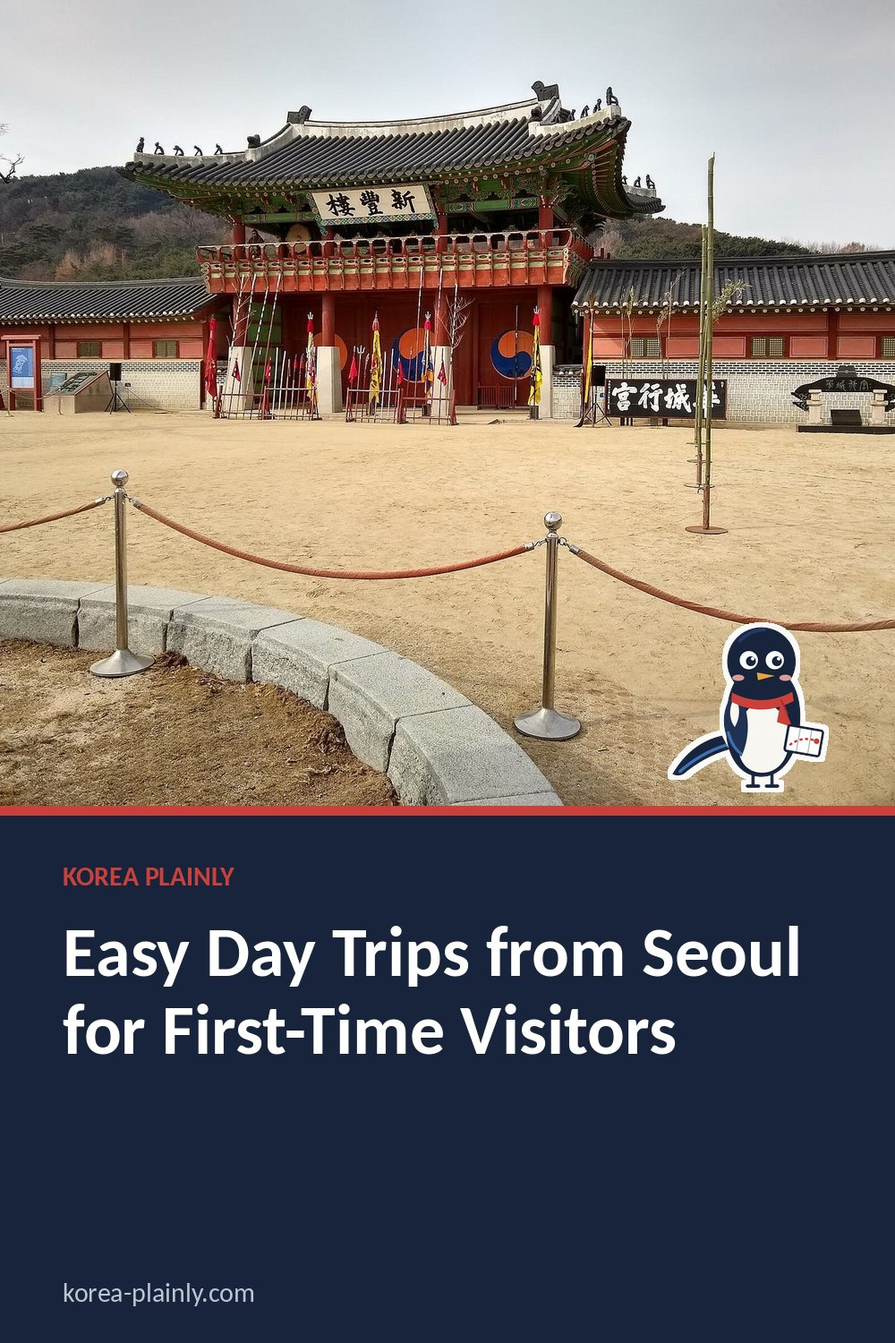
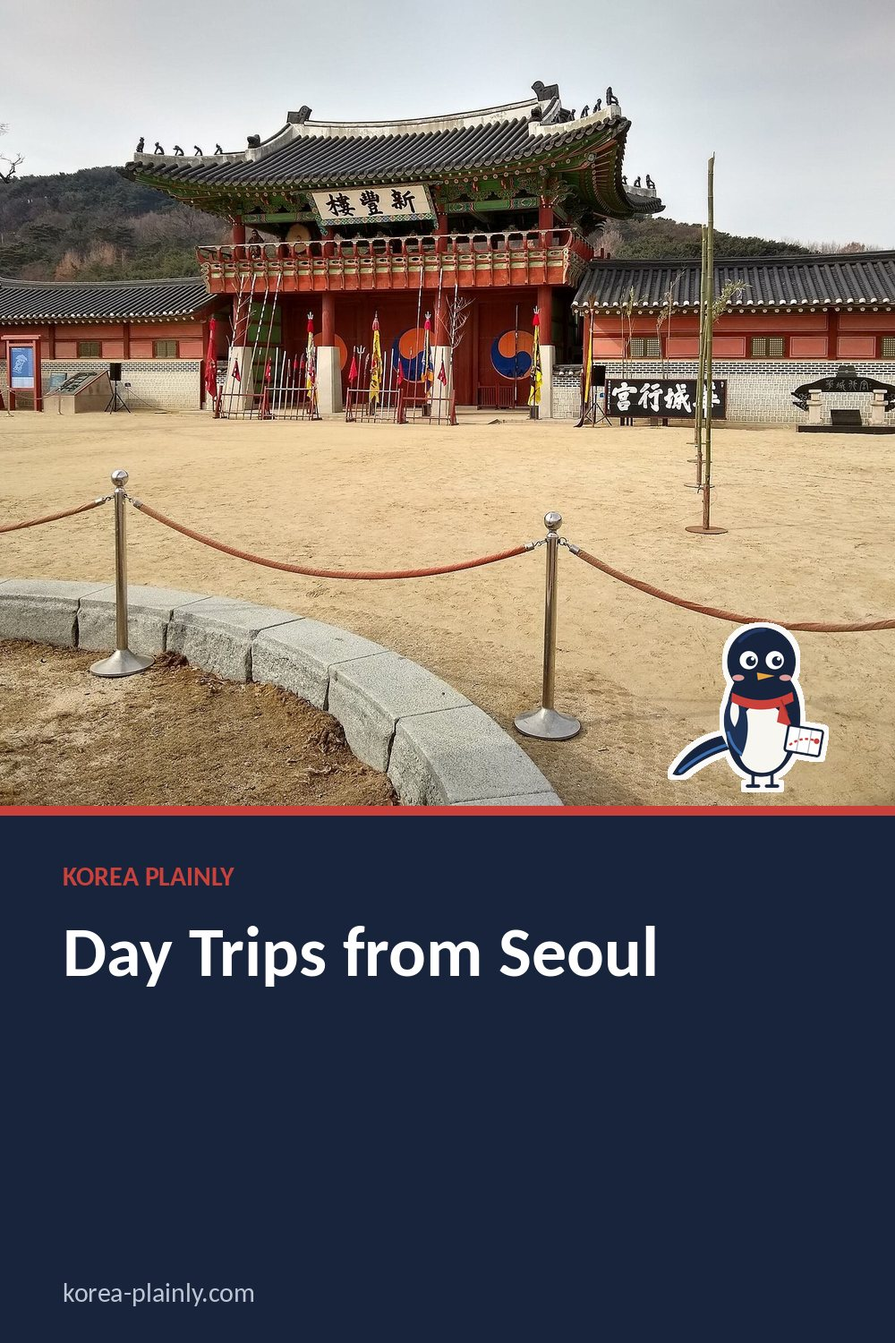
Day trips from Seoul: rewrite with exact trains and stations (Line 1 split at Guro, ITX-Cheongchun, KTX-Eum), food in each town, autumn and winter picks; retitle for 'day trips from Seoul in autumn', specific meta description, FAQ on autumn
Claude-Session: https://claude.ai/code/session_01MMQnqJZjdMGFpXAEup59Ev

Changed region(s): [[0.062, 0.6747, 0.899, 0.7973]]

diff --git a/day-trips-from-seoul.html b/day-trips-from-seoul.html
@@ -11,11 +11,11 @@
 >
 
 <link rel="stylesheet" href="style.css?v=20261015-1">
-<title>Easy Day Trips from Seoul for First-Time Visitors | Korea Plainly</title>
+<title>Day Trips from Seoul: 8 Easy Trips by Train, With Autumn and Winter Picks</title>
 
 <meta
   name="description"
-  content="The best day trips from Seoul and how to get there: Suwon&#x27;s Hwaseong Fortress, the DMZ, Nami Island, Incheon, Jeonju and Gangneung."
+  content="Eight day trips from Seoul with the train or bus to take, the time each way and what to eat, plus the best picks for autumn leaves and winter lights."
 >
 <link
   rel="canonical"
@@ -29,12 +29,12 @@
 
 <meta
   property="og:title"
-  content="Easy Day Trips from Seoul for First-Time Visitors"
+  content="Day Trips from Seoul: 8 Easy Trips by Train, With Autumn and Winter Picks"
 >
 
 <meta
   property="og:description"
-  content="The best day trips from Seoul and how to get there: Suwon&#x27;s Hwaseong Fortress, the DMZ, Nami Island, Incheon, Jeonju and Gangneung."
+  content="Eight day trips from Seoul with the train or bus to take, the time each way and what to eat, plus the best picks for autumn leaves and winter lights."
 >
 
 <meta
@@ -59,12 +59,12 @@
 
 <meta
   name="twitter:title"
-  content="Easy Day Trips from Seoul for First-Time Visitors"
+  content="Day Trips from Seoul: 8 Easy Trips by Train, With Autumn and Winter Picks"
 >
 
 <meta
   name="twitter:description"
-  content="The best day trips from Seoul and how to get there: Suwon&#x27;s Hwaseong Fortress, the DMZ, Nami Island, Incheon, Jeonju and Gangneung."
+  content="Eight day trips from Seoul with the train or bus to take, the time each way and what to eat, plus the best picks for autumn leaves and winter lights."
 >
 
 <meta
@@ -247,9 +247,9 @@ footer {
 <link rel="stylesheet" href="article.css?v=6">
 <link rel="stylesheet" href="https://fonts.googleapis.com/css2?family=DM+Sans:wght@400;500;600;700&family=Playfair+Display:ital,wght@0,600;1,600&display=swap">
 <link rel="icon" href="/favicon.svg" type="image/svg+xml">
-<script type="application/ld+json" id="kp-faq-ld">{"@context": "https://schema.org", "@type": "FAQPage", "mainEntity": [{"@type": "Question", "name": "What is the easiest day trip from Seoul?", "acceptedAnswer": {"@type": "Answer", "text": "Suwon's Hwaseong Fortress and Incheon are both about an hour away by subway, with no booking needed."}}, {"@type": "Question", "name": "Can I visit the DMZ on my own?", "acceptedAnswer": {"@type": "Answer", "text": "Most DMZ sites can only be visited on a guided tour. Book with a licensed operator and bring your passport."}}, {"@type": "Question", "name": "Can I visit Busan as a day trip from Seoul?", "acceptedAnswer": {"@type": "Answer", "text": "It is possible by KTX (about 2.5 hours each way), but it makes for a long day. Staying at least one night is much better; see our one day in Busan plan."}}]}</script>
-<script type="application/ld+json" id="kp-article-ld">{"@context": "https://schema.org", "@type": "Article", "headline": "Easy Day Trips from Seoul for First-Time Visitors", "description": "The best day trips from Seoul and how to get there: Suwon's Hwaseong Fortress, the DMZ, Nami Island, Incheon, Jeonju and Gangneung.", "image": ["https://korea-plainly.com/photo-day-trips-from-seoul.jpg"], "datePublished": "2026-10-13", "dateModified": "2026-11-19", "author": {"@type": "Person", "name": "Jungsuk Kim", "url": "https://korea-plainly.com/about.html#author"}, "publisher": {"@type": "Organization", "name": "Korea Plainly", "url": "https://korea-plainly.com/"}, "mainEntityOfPage": "https://korea-plainly.com/day-trips-from-seoul.html"}</script>
-<script type="application/ld+json" id="kp-breadcrumb-ld">{"@context": "https://schema.org", "@type": "BreadcrumbList", "itemListElement": [{"@type": "ListItem", "position": 1, "name": "Home", "item": "https://korea-plainly.com/"}, {"@type": "ListItem", "position": 2, "name": "Guides", "item": "https://korea-plainly.com/guides.html"}, {"@type": "ListItem", "position": 3, "name": "Travel Basics", "item": "https://korea-plainly.com/guides.html?category=travel"}, {"@type": "ListItem", "position": 4, "name": "Easy Day Trips from Seoul for First-Time Visitors", "item": "https://korea-plainly.com/day-trips-from-seoul.html"}]}</script>
+<script type="application/ld+json" id="kp-faq-ld">{"@context": "https://schema.org", "@type": "FAQPage", "mainEntity": [{"@type": "Question", "name": "What is the easiest day trip from Seoul?", "acceptedAnswer": {"@type": "Answer", "text": "Suwon and Incheon. Both are about an hour away on subway Line 1, you pay with your T-money card, and nothing needs booking."}}, {"@type": "Question", "name": "What is the best day trip from Seoul in autumn?", "acceptedAnswer": {"@type": "Answer", "text": "Nami Island with the Garden of Morning Calm, from late October to early November, for the ginkgo avenues. Go on a weekday morning."}}, {"@type": "Question", "name": "Can I visit Busan as a day trip from Seoul?", "acceptedAnswer": {"@type": "Answer", "text": "It is possible by KTX (about 2.5 hours each way), but it makes for a long day. Staying at least one night is much better; see our one day in Busan plan."}}]}</script>
+<script type="application/ld+json" id="kp-article-ld">{"@context": "https://schema.org", "@type": "Article", "headline": "Day Trips from Seoul: 8 Easy Trips by Train, With Autumn and Winter Picks", "description": "Eight day trips from Seoul with the train or bus to take, the time each way and what to eat, plus the best picks for autumn leaves and winter lights.", "image": ["https://korea-plainly.com/photo-day-trips-from-seoul.jpg"], "datePublished": "2026-10-13", "dateModified": "2026-11-19", "author": {"@type": "Person", "name": "Jungsuk Kim", "url": "https://korea-plainly.com/about.html#author"}, "publisher": {"@type": "Organization", "name": "Korea Plainly", "url": "https://korea-plainly.com/"}, "mainEntityOfPage": "https://korea-plainly.com/day-trips-from-seoul.html"}</script>
+<script type="application/ld+json" id="kp-breadcrumb-ld">{"@context": "https://schema.org", "@type": "BreadcrumbList", "itemListElement": [{"@type": "ListItem", "position": 1, "name": "Home", "item": "https://korea-plainly.com/"}, {"@type": "ListItem", "position": 2, "name": "Guides", "item": "https://korea-plainly.com/guides.html"}, {"@type": "ListItem", "position": 3, "name": "Travel Basics", "item": "https://korea-plainly.com/guides.html?category=travel"}, {"@type": "ListItem", "position": 4, "name": "Day Trips from Seoul: 8 Easy Trips by Train, With Autumn and Winter Picks", "item": "https://korea-plainly.com/day-trips-from-seoul.html"}]}</script>
 <meta property="article:published_time" content="2026-10-13">
 </head>
 
@@ -280,12 +280,12 @@ TRAVEL BASICS · DAY TRIPS
 </div>
 
 <h1>
-Easy Day Trips from Seoul for First-Time Visitors
+Day Trips from Seoul: 8 Easy Trips by Train, With Autumn and Winter Picks
 </h1>
 <p class="kp-date" data-kp="date">By <a href="about.html#author">Jungsuk Kim</a>, Korea Plainly · Published <time datetime="2026-10-13">13 October 2026</time> · Updated <time datetime="2026-11-19">19 November 2026</time></p>
 
 <p class="dek">
-The best day trips from Seoul and how to get there: Suwon&#x27;s Hwaseong Fortress, the DMZ, Nami Island, Incheon, Jeonju and Gangneung.
+Eight day trips from Seoul with the train or bus to take, the time each way and what to eat, plus the best picks for autumn leaves and winter lights.
 </p>
 
 <img
@@ -297,52 +297,60 @@ The best day trips from Seoul and how to get there: Suwon&#x27;s Hwaseong Fortre
 
 <article>
 
-<p>Seoul has plenty to fill a week (see our <a href="seoul-5-day-itinerary.html">5 days in Seoul</a> plan), but some of Korea's best experiences are an hour or two outside the city: a UNESCO fortress, the border with North Korea, river islands, a port with a Chinatown, and Korea's biggest hanok village. Fast trains and good buses make all of these easy as day trips. Here are the best ones for first-time visitors, with how to get there.</p>
+<p>Seoul is big enough to fill a week, but a few of the trips locals actually take at the weekend are only one or two hours away: a fortress wall you can walk round in an afternoon, a port with the original jajangmyeon, lakes and river islands in Gapyeong, and the coffee coast at Gangneung. Here are eight that work for first-time visitors, with the train to take, what to eat, and the best picks for autumn and winter.</p>
 
-<nav class="kp-toc" data-kp="toc" aria-label="On this page"><p>On this page</p><ol><li><a href="#suwon-hwaseong-fortress">Suwon: Hwaseong Fortress</a></li><li><a href="#the-dmz">The DMZ</a></li><li><a href="#nami-island-and-gapyeong">Nami Island and Gapyeong</a></li><li><a href="#incheon-chinatown-and-songdo">Incheon: Chinatown and Songdo</a></li><li><a href="#jeonju-hanok-village-and-food">Jeonju: hanok village and food</a></li><li><a href="#gangneung-coffee-and-the-east-coast">Gangneung: coffee and the east coast</a></li><li><a href="#everland-theme-park">Everland theme park</a></li><li><a href="#tips-for-day-trips">Tips for day trips</a></li><li><a href="#faq">FAQ</a></li></ol></nav>
+<nav class="kp-toc" data-kp="toc" aria-label="On this page"><p>On this page</p><ol><li><a href="#suwon-hwaseong-fortress">Suwon: Hwaseong Fortress</a></li><li><a href="#incheon-chinatown-and-songdo">Incheon: Chinatown, Wolmido and Songdo</a></li><li><a href="#gapyeong-nami-island-and-chuncheon">Gapyeong: Nami Island and Chuncheon</a></li><li><a href="#jeonju-hanok-village-and-food">Jeonju: hanok village and food</a></li><li><a href="#gangneung-coffee-and-the-east-coast">Gangneung: coffee and the east coast</a></li><li><a href="#the-dmz">The DMZ</a></li><li><a href="#yongin-everland">Yongin: Everland</a></li><li><a href="#best-day-trips-in-autumn-and-winter">Best day trips in autumn and winter</a></li><li><a href="#tips-for-day-trips">Tips for day trips</a></li><li><a href="#faq">FAQ</a></li></ol></nav>
 <h2 id="suwon-hwaseong-fortress">Suwon: Hwaseong Fortress</h2>
-<p><strong>Time from Seoul:</strong> about 1 hour by subway or train.</p>
-<p>Hwaseong is a late 18th-century fortress wall that loops around the old centre of Suwon, and it is a UNESCO World Heritage Site. Walk part of the wall for views over the city, visit the rebuilt Hwaseong Haenggung palace, and finish at Suwon's famous fried chicken street near the market. Wear comfortable shoes: the full wall walk is several kilometres with slopes.</p>
+<p><strong>Getting there:</strong> Line 1 to Suwon Station, about an hour from Seoul Station; then a 10-minute bus or taxi to Paldalmun Gate. No booking needed, and your T-money card covers the subway.</p>
+<p>Hwaseong is a late 18th-century wall, about 5.7 km round, that still circles the old centre of Suwon. The full loop takes two to three hours. A good half-loop starts at Paldalmun, climbs Paldalsan hill to the Seojangdae command post for the view, then drops down past Hwaseomun Gate to the Banghwasuryujeong pavilion above a lotus pond. Finish at Hwaseong Haenggung, the king's temporary palace, in the middle of town.</p>
+<ul>
+<li><strong>Eat:</strong> Suwon is known for <em>galbi</em> (marinated beef ribs) and for <em>Tongdak Geori</em>, the fried chicken alley near Paldalmun, where whole chickens are fried in big iron cauldrons.</li>
+<li><strong>Tip:</strong> the hill section is steep. Wear trainers, and in summer start early.</li>
+</ul>
 
-<h2 id="the-dmz">The DMZ</h2>
-<p><strong>Time from Seoul:</strong> about 1 to 1.5 hours, by organised tour.</p>
-<p>The Demilitarized Zone between North and South Korea is one of the most unusual places you can visit. Most sites, such as observatories and infiltration tunnels, can only be reached on a guided tour, and the Joint Security Area at Panmunjom has its own strict rules and sometimes closes. Book with a licensed tour company, bring your passport, and check the dress code and cancellation policy. Tours can be cancelled at short notice for security reasons. Our <a href="dmz-tour-guide.html">DMZ tour guide</a> explains what each tour shows you and how to choose one.</p>
+<h2 id="incheon-chinatown-and-songdo">Incheon: Chinatown, Wolmido and Songdo</h2>
+<p><strong>Getting there:</strong> Line 1 to Incheon Station (the end of the line), about 1 hour 10 minutes from Seoul Station. Chinatown's red gate is across the road.</p>
+<p>Line 1 splits at Guro: one branch goes to Incheon, the other to Suwon and Cheonan, so check the destination shown on the front of the train. In Chinatown, the <a href="incheon-local-guide-incheon-chinatown.html">Jajangmyeon Museum</a> tells how black bean noodles began here with Chinese port workers, and restaurants on the main slope serve the dish plus <em>jjamppong</em> (spicy seafood noodle soup). Walk up to Songwol-dong Fairy Tale Village, then take the small Wolmi Sea Train to Wolmido for a sea view. For a modern contrast, ride Incheon Line 1 to Central Park Station in <a href="incheon.html">Songdo</a>.</p>
 
-<h2 id="nami-island-and-gapyeong">Nami Island and Gapyeong</h2>
-<p><strong>Time from Seoul:</strong> about 1.5 hours by train and bus, or by shuttle bus.</p>
-<p>Nami Island is a small river island with tree-lined avenues, walking paths and riverside cafes, and it is at its best in autumn, when the ginkgo and metasequoia trees turn. Reach it by a short ferry or zipline from the mainland. Combine it with the Garden of Morning Calm, a large landscaped garden that is lit up in winter, or with nearby Chuncheon for <em>dakgalbi</em>, spicy stir-fried chicken. See our <a href="korea-autumn-foliage-2026.html">autumn foliage guide</a> for the best timing, and our <a href="nami-island-gapyeong.html">Nami Island and Gapyeong guide</a> for trains, tickets and nearby sights.</p>
-
-<h2 id="incheon-chinatown-and-songdo">Incheon: Chinatown and Songdo</h2>
-<p><strong>Time from Seoul:</strong> about 1 hour by subway.</p>
-<p>Incheon, Seoul's port city, makes an easy half or full day. Explore <a href="incheon-local-guide-incheon-chinatown.html">Incheon Chinatown</a>, the birthplace of <em>jajangmyeon</em> (black bean noodles), and the colourful Fairy Tale Village next door. Then head to the modern district of Songdo for <a href="incheon.html">Songdo Central Park</a> and its waterside skyline. If you are flying out, Incheon is also a good last stop before the airport.</p>
+<h2 id="gapyeong-nami-island-and-chuncheon">Gapyeong: Nami Island and Chuncheon</h2>
+<p><strong>Getting there:</strong> ITX-Cheongchun from Yongsan or Cheongnyangni to Gapyeong, roughly an hour; the slower Gyeongchun Line subway also goes there. A five-minute taxi reaches the Nami ferry wharf.</p>
+<p>Nami Island is a small river island of tree-lined avenues, at its best in late October and early November when the ginkgo and metasequoia trees turn. The Gapyeong City Tour Bus links it with the Garden of Morning Calm (<em>Achim Goyo Sumogwon</em>) and Petite France. If you have energy left, stay on the ITX to the end of the line at Chuncheon for <em>dakgalbi</em>, spicy chicken stir-fried on a big iron pan at your table, and cold buckwheat <em>makguksu</em>. Our <a href="nami-island-gapyeong.html">Nami Island and Gapyeong guide</a> has the details.</p>
 
 <h2 id="jeonju-hanok-village-and-food">Jeonju: hanok village and food</h2>
-<p><strong>Time from Seoul:</strong> about 1.5 to 2 hours by KTX.</p>
-<p>Jeonju is a long day trip but a rewarding one. Its <a href="jeonju.html">hanok village</a> has hundreds of traditional houses, and the city is famous across Korea as the home of bibimbap. Walk the village lanes, visit Gyeonggijeon Shrine, and eat bibimbap before the train back. Many visitors end up wishing they had stayed the night.</p>
+<p><strong>Getting there:</strong> KTX from Yongsan, about 1 hour 40 minutes; express buses from Central City Terminal take nearer three hours. Jeonju Station is a 15-20 minute taxi from the village.</p>
+<p>Jeonju has more than 700 traditional houses in one neighbourhood. Walk to Gyeonggijeon Shrine, which holds the portrait of the founder of the Joseon dynasty, Jeondong Cathedral just opposite, and the Omokdae viewpoint above the rooftops. Eat Jeonju <em>bibimbap</em> for lunch and <em>kongnamul gukbap</em> (bean sprout soup) if you arrive early. It is the longest trip here; many people end up staying the night. See <a href="jeonju-hanok-village-from-seoul.html">Jeonju Hanok Village from Seoul</a> for trains, buses and a walking order.</p>
 
 <h2 id="gangneung-coffee-and-the-east-coast">Gangneung: coffee and the east coast</h2>
-<p><strong>Time from Seoul:</strong> about 2 hours by KTX.</p>
-<p>Gangneung, on the east coast, combines beaches, history and a famous coffee culture. Visit <a href="gangneung.html">Ojukheon</a>, the birthplace of two of Korea's most famous historical figures, walk along Gyeongpo Beach and Lake, and drink coffee at a roastery like <a href="gangneung.html">Terarosa</a> or along Anmok Beach's cafe street.</p>
+<p><strong>Getting there:</strong> KTX-Eum from Seoul Station or Cheongnyangni, about 1 hour 50 minutes.</p>
+<p><a href="gangneung.html">Gangneung</a> is where Seoulites go to see the sea without flying. Anmok Beach has a strip of cafes facing the water, Gyeongpo Lake is flat enough for a rental bike, and Ojukheon is the family home of the scholar Yi I and his mother Shin Saimdang, the two faces on the 5,000 and 50,000 won notes. For lunch, Chodang village serves <em>sundubu</em>, soft tofu traditionally set with seawater. The east coast is often clear and bright in winter, when Seoul is grey.</p>
 
-<h2 id="everland-theme-park">Everland theme park</h2>
-<p>Korea's biggest theme park, in Yongin, is about an hour from Seoul by bus, with big roller coasters, a safari and giant pandas. It makes a full day out; see our <a href="lotte-world-vs-everland.html">Lotte World or Everland guide</a> to decide whether it suits you better than Lotte World in the city.</p>
+<h2 id="the-dmz">The DMZ</h2>
+<p><strong>Getting there:</strong> on an organised tour from Seoul, or on Paju's own DMZ shuttle from Imjingak; about an hour each way.</p>
+<p>A typical tour visits Imjingak park, the Third Infiltration Tunnel and Dora Observatory, which looks across to North Korea. Bring your passport: it is checked at the military checkpoint. The Joint Security Area at Panmunjom has been closed to ordinary tourists, so be wary of anything sold as a JSA tour. Our <a href="dmz-tour-guide.html">DMZ tour guide</a> compares the options and the closing days.</p>
+
+<h2 id="yongin-everland">Yongin: Everland</h2>
+<p>Korea's biggest theme park is about an hour from Gangnam by express bus, with the wooden roller coaster T Express, a safari and the giant pandas. Our <a href="lotte-world-vs-everland.html">Lotte World or Everland guide</a> helps you choose.</p>
+
+<h2 id="best-day-trips-in-autumn-and-winter">Best day trips in autumn and winter</h2>
+<ul>
+<li><strong>Autumn (mid-October to mid-November):</strong> Nami Island and the Garden of Morning Calm for yellow ginkgo; the Hwaseong wall walk in cool, dry weather; and Seoraksan near Sokcho, about 2.5 hours by express bus, with peak colour around mid-October. Our <a href="korea-autumn-foliage-2026.html">autumn foliage guide</a> has the timing by region.</li>
+<li><strong>Winter (December to February):</strong> the Garden of Morning Calm's lighting festival, which usually runs from early December into March; Gangneung for sunshine and sea; and ski resorts such as Vivaldi Park, reached by shuttle bus from Seoul.</li>
+</ul>
 
 <h2 id="tips-for-day-trips">Tips for day trips</h2>
 <ul>
-<li><strong>Book trains ahead</strong> for weekends and holidays; KTX seats sell out. You can book on the Korail website or app.</li>
-<li><strong>Start early</strong> and check the time of the last train or bus back.</li>
-<li><strong>Use your transit card</strong> on subways and buses outside Seoul too. See our <a href="korea-transit-card-guide.html">transit card guide</a>.</li>
-<li><strong>Use Naver Map or KakaoMap</strong> for routes and bus times; they cover intercity trains and local buses.</li>
-<li><strong>Leave luggage at your hotel</strong>, or use a station locker. Long walks are much easier without bags.</li>
+<li><strong>Book KTX and ITX seats ahead</strong> on the Korail Talk app or letskorail.com for weekends, Chuseok and Seollal; Friday evening trains out of Seoul fill up first. Our <a href="ktx-train-guide.html">KTX guide</a> explains how.</li>
+<li><strong>Use your T-money card</strong> for Suwon, Incheon and the Gyeongchun Line: they are on the Seoul subway network, so the fare is just distance-based. KTX and ITX need a ticket.</li>
+<li><strong>Check the last train back</strong> before you set out. Times and fares change, so confirm the day's schedule on Korail Talk and local routes on Naver Map or KakaoMap.</li>
 </ul>
 
 <aside class="kp-aff" data-kp-aff="klook"><p class="kp-aff-k">BOOK AHEAD</p><p class="kp-aff-t">Day tours from Seoul</p><p>Most of these trips are easy to do on your own by train or bus. A coach tour makes sense for places with awkward transfers, such as the DMZ, Nami Island with the Garden of Morning Calm, or a ski resort.</p><p class="kp-aff-l"><a class="kp-aff-btn" href="https://www.klook.com/destination/c13-seoul/1002-day-trips/?aid=143923" target="_blank" rel="sponsored nofollow noopener">See day trips from Seoul on Klook &rarr;</a></p><p class="kp-aff-d">Affiliate link: if you book through it, Korea Plainly may earn a small commission at no extra cost to you.</p></aside>
 <section class="faq">
 <h2 id="faq">FAQ</h2>
 <h3>What is the easiest day trip from Seoul?</h3>
-<p>Suwon's Hwaseong Fortress and Incheon are both about an hour away by subway, with no booking needed.</p>
-<h3>Can I visit the DMZ on my own?</h3>
-<p>Most DMZ sites can only be visited on a guided tour. Book with a licensed operator and bring your passport.</p>
+<p>Suwon and Incheon. Both are about an hour away on subway Line 1, you pay with your T-money card, and nothing needs booking.</p>
+<h3>What is the best day trip from Seoul in autumn?</h3>
+<p>Nami Island with the Garden of Morning Calm, from late October to early November, for the ginkgo avenues. Go on a weekday morning.</p>
 <h3>Can I visit Busan as a day trip from Seoul?</h3>
 <p>It is possible by KTX (about 2.5 hours each way), but it makes for a long day. Staying at least one night is much better; see our <a href="busan-1-day-itinerary.html">one day in Busan</a> plan.</p>
 </section>

diff --git a/sim-esim-wifi-korea.html b/sim-esim-wifi-korea.html
@@ -23,7 +23,7 @@
 <link rel="stylesheet" href="article.css?v=6">
 <link rel="stylesheet" href="https://fonts.googleapis.com/css2?family=DM+Sans:wght@400;500;600;700&family=Playfair+Display:ital,wght@0,600;1,600&display=swap">
 <script type="application/ld+json" id="kp-faq-ld">{"@context": "https://schema.org", "@type": "FAQPage", "mainEntity": [{"@type": "Question", "name": "Is an eSIM or a SIM card better for Korea?", "acceptedAnswer": {"@type": "Answer", "text": "For most short trips, an eSIM is easiest: you set it up before you fly and have data on landing. Choose a physical SIM if your phone doesn't support eSIM or you want a Korean phone number."}}, {"@type": "Question", "name": "Do I need a Korean phone number as a tourist?", "acceptedAnswer": {"@type": "Answer", "text": "Usually not. Data is enough for maps, translation and messaging apps. A Korean number helps if you need to receive local calls or texts, but it usually won't pass identity checks for Korean-only apps."}}, {"@type": "Question", "name": "Can I buy a SIM card at Incheon Airport?", "acceptedAnswer": {"@type": "Answer", "text": "Yes. The carriers' counters in the arrivals hall sell tourist SIMs and rent pocket Wi-Fi. Bring your passport."}}, {"@type": "Question", "name": "Can I get a Korean eSIM with a phone number as a tourist?", "acceptedAnswer": {"@type": "Answer", "text": "Yes, some tourist eSIMs from the Korean carriers include a 010 number that can receive calls and texts, and some plans add calling credit. You usually pick them up at an airport counter with your passport, and the number won't work for Korean identity verification. Most travellers only need a data-only eSIM."}}]}</script>
-<script type="application/ld+json" id="kp-article-ld">{"@context": "https://schema.org", "@type": "Article", "headline": "Korea eSIM, SIM Card or Wi-Fi: Which Tourist Option Gives You a Phone Number?", "description": "Which Korea eSIM or SIM card gives tourists a Korean phone number: data-only eSIMs, eSIMs and SIMs with an 010 number, and pocket Wi-Fi compared.", "image": ["https://korea-plainly.com/thumb-sim-esim-wifi.jpg"], "datePublished": "2026-10-07", "dateModified": "2026-11-18", "author": {"@type": "Person", "name": "Jungsuk Kim", "url": "https://korea-plainly.com/about.html#author"}, "publisher": {"@type": "Organization", "name": "Korea Plainly", "url": "https://korea-plainly.com/"}, "mainEntityOfPage": "https://korea-plainly.com/sim-esim-wifi-korea.html"}</script>
+<script type="application/ld+json" id="kp-article-ld">{"@context": "https://schema.org", "@type": "Article", "headline": "Korea eSIM, SIM Card or Wi-Fi: Which Tourist Option Gives You a Phone Number?", "description": "Which Korea eSIM or SIM card gives tourists a Korean phone number: data-only eSIMs, eSIMs and SIMs with an 010 number, and pocket Wi-Fi compared.", "image": ["https://korea-plainly.com/thumb-sim-esim-wifi.jpg"], "datePublished": "2026-10-07", "dateModified": "2026-11-19", "author": {"@type": "Person", "name": "Jungsuk Kim", "url": "https://korea-plainly.com/about.html#author"}, "publisher": {"@type": "Organization", "name": "Korea Plainly", "url": "https://korea-plainly.com/"}, "mainEntityOfPage": "https://korea-plainly.com/sim-esim-wifi-korea.html"}</script>
 <script type="application/ld+json" id="kp-breadcrumb-ld">{"@context": "https://schema.org", "@type": "BreadcrumbList", "itemListElement": [{"@type": "ListItem", "position": 1, "name": "Home", "item": "https://korea-plainly.com/"}, {"@type": "ListItem", "position": 2, "name": "Guides", "item": "https://korea-plainly.com/guides.html"}, {"@type": "ListItem", "position": 3, "name": "Travel Basics", "item": "https://korea-plainly.com/guides.html?category=travel"}, {"@type": "ListItem", "position": 4, "name": "Korea eSIM, SIM Card or Wi-Fi: Which Tourist Option Gives You a Phone Number?", "item": "https://korea-plainly.com/sim-esim-wifi-korea.html"}]}</script>
 <meta property="article:published_time" content="2026-10-07">
 </head><body class="kp-article">
@@ -40,7 +40,7 @@
 <button class="menu" aria-label="menu">☰</button></div></header>
 <main class="article-page"><section class="wrap article-hero"><nav class="kp-crumbs" data-kp="crumbs" aria-label="Breadcrumb"><a href="index.html">Home</a> <span>›</span> <a href="guides.html">Guides</a> <span>›</span> <a href="guides.html?category=travel">Travel Basics</a></nav>
 <p class="kicker"><i></i> TRAVEL · APPS</p><h1>Korea eSIM, SIM Card or Wi-Fi: Which Tourist Option Gives You a Phone Number?</h1>
-<p class="kp-date" data-kp="date">By <a href="about.html#author">Jungsuk Kim</a>, Korea Plainly · Published <time datetime="2026-10-07">7 October 2026</time> · Updated <time datetime="2026-11-18">18 November 2026</time></p><p class="article-lead">eSIM, a Korean SIM card or a pocket Wi-Fi router: how each one works in Korea, who it suits, and what to sort out before you land.</p><p class="article-meta">Korea Plainly · 7 min read</p></section>
+<p class="kp-date" data-kp="date">By <a href="about.html#author">Jungsuk Kim</a>, Korea Plainly · Published <time datetime="2026-10-07">7 October 2026</time> · Updated <time datetime="2026-11-19">19 November 2026</time></p><p class="article-lead">eSIM, a Korean SIM card or a pocket Wi-Fi router: how each one works in Korea, who it suits, and what to sort out before you land.</p><p class="article-meta">Korea Plainly · 7 min read</p></section>
 <div class="wrap"><img class="cover" src="thumb-sim-esim-wifi.jpg" alt="Korea eSIM, SIM Card or Wi-Fi: Which Tourist Option Gives You a Phone Number?"></div>
 <article class="article-body"><p>Mobile data is not optional in Korea. You will use it for maps, translation, taxi apps and booking restaurants, and many places expect you to show something on your phone. The good news: coverage is excellent across cities, subways and most of the countryside, and there are three easy ways to get online.</p>
 <nav class="kp-toc" data-kp="toc" aria-label="On this page"><p>On this page</p><ol><li><a href="#option-1-esim">Option 1: eSIM</a></li><li><a href="#option-2-korean-sim-card">Option 2: Korean SIM card</a></li><li><a href="#option-3-pocket-wi-fi">Option 3: Pocket Wi-Fi</a></li><li><a href="#which-one-should-you-choose">Which one should you choose?</a></li><li><a href="#before-you-fly">Before you fly</a></li><li><a href="#what-a-korean-phone-number-can-and-can-t-do">What a Korean phone number can and can&#x27;t do</a></li><li><a href="#new-id-checks-at-the-counter">New ID checks at the counter</a></li><li><a href="#where-to-buy-at-the-airport">Where to buy at the airport</a></li><li><a href="#free-wi-fi-as-a-backup">Free Wi-Fi as a backup</a></li><li><a href="#faq">FAQ</a></li></ol></nav>

diff --git a/seoul-ice-skating-rinks.html b/seoul-ice-skating-rinks.html
@@ -318,7 +318,7 @@ Ice skating in Seoul: the Seoul Plaza rink (about ₩1,000 with skates), the Gra
 <!-- /kp-kkachi -->
 <section class="related-guides">
 <h2>Related guides</h2>
-<div class="kp-related"><a href="korea-travel-mistakes.html"><img src="photo-korea-travel-mistakes.jpg" alt="" loading="lazy" srcset="img/photo-korea-travel-mistakes.dbb3c91a.w480.webp 480w, img/photo-korea-travel-mistakes.dbb3c91a.w800.webp 800w, img/photo-korea-travel-mistakes.dbb3c91a.w1200.webp 1200w, photo-korea-travel-mistakes.jpg 1600w" sizes="(max-width: 600px) 100vw, (max-width: 1000px) 50vw, 400px" decoding="async"><span>South Korea Travel Tips: 16 First-Timer Mistakes to Avoid</span></a><a href="day-trips-from-seoul.html"><img src="photo-day-trips-from-seoul.jpg" alt="" loading="lazy" srcset="img/photo-day-trips-from-seoul.449c2dca.w480.webp 480w, img/photo-day-trips-from-seoul.449c2dca.w800.webp 800w, img/photo-day-trips-from-seoul.449c2dca.w1200.webp 1200w, photo-day-trips-from-seoul.jpg 1600w" sizes="(max-width: 600px) 100vw, (max-width: 1000px) 50vw, 400px" decoding="async"><span>Easy Day Trips from Seoul for First-Time Visitors</span></a><a href="korea-winter-travel-guide.html"><img src="photo-own-hanok-mountains.jpg" alt="" loading="lazy" srcset="img/photo-own-hanok-mountains.ddf0fb67.w480.webp 480w, img/photo-own-hanok-mountains.ddf0fb67.w800.webp 800w, img/photo-own-hanok-mountains.ddf0fb67.w1200.webp 1200w, photo-own-hanok-mountains.jpg 1600w" sizes="(max-width: 600px) 100vw, (max-width: 1000px) 50vw, 400px" decoding="async"><span>Korea Winter Weather and Travel Guide: Seoul Temperatures, What to Pack and Do</span></a></div>
+<div class="kp-related"><a href="korea-travel-mistakes.html"><img src="photo-korea-travel-mistakes.jpg" alt="" loading="lazy" srcset="img/photo-korea-travel-mistakes.dbb3c91a.w480.webp 480w, img/photo-korea-travel-mistakes.dbb3c91a.w800.webp 800w, img/photo-korea-travel-mistakes.dbb3c91a.w1200.webp 1200w, photo-korea-travel-mistakes.jpg 1600w" sizes="(max-width: 600px) 100vw, (max-width: 1000px) 50vw, 400px" decoding="async"><span>South Korea Travel Tips: 16 First-Timer Mistakes to Avoid</span></a><a href="day-trips-from-seoul.html"><img src="photo-day-trips-from-seoul.jpg" alt="" loading="lazy" srcset="img/photo-day-trips-from-seoul.449c2dca.w480.webp 480w, img/photo-day-trips-from-seoul.449c2dca.w800.webp 800w, img/photo-day-trips-from-seoul.449c2dca.w1200.webp 1200w, photo-day-trips-from-seoul.jpg 1600w" sizes="(max-width: 600px) 100vw, (max-width: 1000px) 50vw, 400px" decoding="async"><span>Day Trips from Seoul: 8 Easy Trips by Train, With Autumn and Winter Picks</span></a><a href="korea-winter-travel-guide.html"><img src="photo-own-hanok-mountains.jpg" alt="" loading="lazy" srcset="img/photo-own-hanok-mountains.ddf0fb67.w480.webp 480w, img/photo-own-hanok-mountains.ddf0fb67.w800.webp 800w, img/photo-own-hanok-mountains.ddf0fb67.w1200.webp 1200w, photo-own-hanok-mountains.jpg 1600w" sizes="(max-width: 600px) 100vw, (max-width: 1000px) 50vw, 400px" decoding="async"><span>Korea Winter Weather and Travel Guide: Seoul Temperatures, What to Pack and Do</span></a></div>
 </section>
 
 </article>

diff --git a/seoraksan-hikes.html b/seoraksan-hikes.html
@@ -374,7 +374,7 @@ Pick Biseondae or Biryong Falls for a relaxed first visit, Ulsanbawi if you are 
 <!-- /kp-kkachi -->
 <section class="related-guides">
 <h2>Related guides</h2>
-<div class="kp-related"><a href="day-trips-from-seoul.html"><img src="photo-day-trips-from-seoul.jpg" alt="" loading="lazy" srcset="img/photo-day-trips-from-seoul.449c2dca.w480.webp 480w, img/photo-day-trips-from-seoul.449c2dca.w800.webp 800w, img/photo-day-trips-from-seoul.449c2dca.w1200.webp 1200w, photo-day-trips-from-seoul.jpg 1600w" sizes="(max-width: 600px) 100vw, (max-width: 1000px) 50vw, 400px" decoding="async"><span>Easy Day Trips from Seoul for First-Time Visitors</span></a><a href="korea-travel-mistakes.html"><img src="photo-korea-travel-mistakes.jpg" alt="" loading="lazy" srcset="img/photo-korea-travel-mistakes.dbb3c91a.w480.webp 480w, img/photo-korea-travel-mistakes.dbb3c91a.w800.webp 800w, img/photo-korea-travel-mistakes.dbb3c91a.w1200.webp 1200w, photo-korea-travel-mistakes.jpg 1600w" sizes="(max-width: 600px) 100vw, (max-width: 1000px) 50vw, 400px" decoding="async"><span>South Korea Travel Tips: 16 First-Timer Mistakes to Avoid</span></a><a href="korean-cafe-menu-basics.html"><img src="photo-korean-cafe-menu-basics.jpg" alt="" loading="lazy" srcset="img/photo-korean-cafe-menu-basics.5fc280dd.w480.webp 480w, img/photo-korean-cafe-menu-basics.5fc280dd.w800.webp 800w, img/photo-korean-cafe-menu-basics.5fc280dd.w1200.webp 1200w, photo-korean-cafe-menu-basics.jpg 1600w" sizes="(max-width: 600px) 100vw, (max-width: 1000px) 50vw, 400px" decoding="async"><span>Korean Café Menu Basics: What to Order and How</span></a></div>
+<div class="kp-related"><a href="day-trips-from-seoul.html"><img src="photo-day-trips-from-seoul.jpg" alt="" loading="lazy" srcset="img/photo-day-trips-from-seoul.449c2dca.w480.webp 480w, img/photo-day-trips-from-seoul.449c2dca.w800.webp 800w, img/photo-day-trips-from-seoul.449c2dca.w1200.webp 1200w, photo-day-trips-from-seoul.jpg 1600w" sizes="(max-width: 600px) 100vw, (max-width: 1000px) 50vw, 400px" decoding="async"><span>Day Trips from Seoul: 8 Easy Trips by Train, With Autumn and Winter Picks</span></a><a href="korea-travel-mistakes.html"><img src="photo-korea-travel-mistakes.jpg" alt="" loading="lazy" srcset="img/photo-korea-travel-mistakes.dbb3c91a.w480.webp 480w, img/photo-korea-travel-mistakes.dbb3c91a.w800.webp 800w, img/photo-korea-travel-mistakes.dbb3c91a.w1200.webp 1200w, photo-korea-travel-mistakes.jpg 1600w" sizes="(max-width: 600px) 100vw, (max-width: 1000px) 50vw, 400px" decoding="async"><span>South Korea Travel Tips: 16 First-Timer Mistakes to Avoid</span></a><a href="korean-cafe-menu-basics.html"><img src="photo-korean-cafe-menu-basics.jpg" alt="" loading="lazy" srcset="img/photo-korean-cafe-menu-basics.5fc280dd.w480.webp 480w, img/photo-korean-cafe-menu-basics.5fc280dd.w800.webp 800w, img/photo-korean-cafe-menu-basics.5fc280dd.w1200.webp 1200w, photo-korean-cafe-menu-basics.jpg 1600w" sizes="(max-width: 600px) 100vw, (max-width: 1000px) 50vw, 400px" decoding="async"><span>Korean Café Menu Basics: What to Order and How</span></a></div>
 </section>
 
 </article>

diff --git a/visit-busan-pass.html b/visit-busan-pass.html
@@ -346,7 +346,7 @@ exploring at your own pace.
 <!-- /kp-kkachi -->
 <section class="related-guides">
 <h2>Related guides</h2>
-<div class="kp-related"><a href="korea-travel-mistakes.html"><img src="photo-korea-travel-mistakes.jpg" alt="" loading="lazy" srcset="img/photo-korea-travel-mistakes.dbb3c91a.w480.webp 480w, img/photo-korea-travel-mistakes.dbb3c91a.w800.webp 800w, img/photo-korea-travel-mistakes.dbb3c91a.w1200.webp 1200w, photo-korea-travel-mistakes.jpg 1600w" sizes="(max-width: 600px) 100vw, (max-width: 1000px) 50vw, 400px" decoding="async"><span>South Korea Travel Tips: 16 First-Timer Mistakes to Avoid</span></a><a href="day-trips-from-seoul.html"><img src="photo-day-trips-from-seoul.jpg" alt="" loading="lazy" srcset="img/photo-day-trips-from-seoul.449c2dca.w480.webp 480w, img/photo-day-trips-from-seoul.449c2dca.w800.webp 800w, img/photo-day-trips-from-seoul.449c2dca.w1200.webp 1200w, photo-day-trips-from-seoul.jpg 1600w" sizes="(max-width: 600px) 100vw, (max-width: 1000px) 50vw, 400px" decoding="async"><span>Easy Day Trips from Seoul for First-Time Visitors</span></a><a href="korean-cafe-menu-basics.html"><img src="photo-korean-cafe-menu-basics.jpg" alt="" loading="lazy" srcset="img/photo-korean-cafe-menu-basics.5fc280dd.w480.webp 480w, img/photo-korean-cafe-menu-basics.5fc280dd.w800.webp 800w, img/photo-korean-cafe-menu-basics.5fc280dd.w1200.webp 1200w, photo-korean-cafe-menu-basics.jpg 1600w" sizes="(max-width: 600px) 100vw, (max-width: 1000px) 50vw, 400px" decoding="async"><span>Korean Café Menu Basics: What to Order and How</span></a></div>
+<div class="kp-related"><a href="korea-travel-mistakes.html"><img src="photo-korea-travel-mistakes.jpg" alt="" loading="lazy" srcset="img/photo-korea-travel-mistakes.dbb3c91a.w480.webp 480w, img/photo-korea-travel-mistakes.dbb3c91a.w800.webp 800w, img/photo-korea-travel-mistakes.dbb3c91a.w1200.webp 1200w, photo-korea-travel-mistakes.jpg 1600w" sizes="(max-width: 600px) 100vw, (max-width: 1000px) 50vw, 400px" decoding="async"><span>South Korea Travel Tips: 16 First-Timer Mistakes to Avoid</span></a><a href="day-trips-from-seoul.html"><img src="photo-day-trips-from-seoul.jpg" alt="" loading="lazy" srcset="img/photo-day-trips-from-seoul.449c2dca.w480.webp 480w, img/photo-day-trips-from-seoul.449c2dca.w800.webp 800w, img/photo-day-trips-from-seoul.449c2dca.w1200.webp 1200w, photo-day-trips-from-seoul.jpg 1600w" sizes="(max-width: 600px) 100vw, (max-width: 1000px) 50vw, 400px" decoding="async"><span>Day Trips from Seoul: 8 Easy Trips by Train, With Autumn and Winter Picks</span></a><a href="korean-cafe-menu-basics.html"><img src="photo-korean-cafe-menu-basics.jpg" alt="" loading="lazy" srcset="img/photo-korean-cafe-menu-basics.5fc280dd.w480.webp 480w, img/photo-korean-cafe-menu-basics.5fc280dd.w800.webp 800w, img/photo-korean-cafe-menu-basics.5fc280dd.w1200.webp 1200w, photo-korean-cafe-menu-basics.jpg 1600w" sizes="(max-width: 600px) 100vw, (max-width: 1000px) 50vw, 400px" decoding="async"><span>Korean Café Menu Basics: What to Order and How</span></a></div>
 </section>
 
 </article>

diff --git a/nami-island-gapyeong.html b/nami-island-gapyeong.html
@@ -360,7 +360,7 @@ How to visit Nami Island and Gapyeong from Seoul: train, shuttle bus or tour, th
 <!-- /kp-kkachi -->
 <section class="related-guides">
 <h2>Related guides</h2>
-<div class="kp-related"><a href="day-trips-from-seoul.html"><img src="photo-day-trips-from-seoul.jpg" alt="" loading="lazy" srcset="img/photo-day-trips-from-seoul.449c2dca.w480.webp 480w, img/photo-day-trips-from-seoul.449c2dca.w800.webp 800w, img/photo-day-trips-from-seoul.449c2dca.w1200.webp 1200w, photo-day-trips-from-seoul.jpg 1600w" sizes="(max-width: 600px) 100vw, (max-width: 1000px) 50vw, 400px" decoding="async"><span>Easy Day Trips from Seoul for First-Time Visitors</span></a><a href="seoul-vs-busan.html"><img src="photo-seoul-vs-busan.jpg" alt="" loading="lazy" srcset="img/photo-seoul-vs-busan.79c62dd8.w480.webp 480w, img/photo-seoul-vs-busan.79c62dd8.w800.webp 800w, img/photo-seoul-vs-busan.79c62dd8.w1200.webp 1200w, photo-seoul-vs-busan.jpg 1600w" sizes="(max-width: 600px) 100vw, (max-width: 1000px) 50vw, 400px" decoding="async"><span>Seoul or Busan? How to Choose (or Do Both) on Your First Trip</span></a><a href="dmz-tour-guide.html"><img src="photo-dmz-tour-guide.jpg" alt="" loading="lazy" srcset="img/photo-dmz-tour-guide.330a61dc.w480.webp 480w, img/photo-dmz-tour-guide.330a61dc.w800.webp 800w, img/photo-dmz-tour-guide.330a61dc.w1200.webp 1200w, photo-dmz-tour-guide.jpg 1600w" sizes="(max-width: 600px) 100vw, (max-width: 1000px) 50vw, 400px" decoding="async"><span>DMZ Tours from Seoul: What You&#x27;ll See and How to Choose One</span></a></div>
+<div class="kp-related"><a href="day-trips-from-seoul.html"><img src="photo-day-trips-from-seoul.jpg" alt="" loading="lazy" srcset="img/photo-day-trips-from-seoul.449c2dca.w480.webp 480w, img/photo-day-trips-from-seoul.449c2dca.w800.webp 800w, img/photo-day-trips-from-seoul.449c2dca.w1200.webp 1200w, photo-day-trips-from-seoul.jpg 1600w" sizes="(max-width: 600px) 100vw, (max-width: 1000px) 50vw, 400px" decoding="async"><span>Day Trips from Seoul: 8 Easy Trips by Train, With Autumn and Winter Picks</span></a><a href="seoul-vs-busan.html"><img src="photo-seoul-vs-busan.jpg" alt="" loading="lazy" srcset="img/photo-seoul-vs-busan.79c62dd8.w480.webp 480w, img/photo-seoul-vs-busan.79c62dd8.w800.webp 800w, img/photo-seoul-vs-busan.79c62dd8.w1200.webp 1200w, photo-seoul-vs-busan.jpg 1600w" sizes="(max-width: 600px) 100vw, (max-width: 1000px) 50vw, 400px" decoding="async"><span>Seoul or Busan? How to Choose (or Do Both) on Your First Trip</span></a><a href="dmz-tour-guide.html"><img src="photo-dmz-tour-guide.jpg" alt="" loading="lazy" srcset="img/photo-dmz-tour-guide.330a61dc.w480.webp 480w, img/photo-dmz-tour-guide.330a61dc.w800.webp 800w, img/photo-dmz-tour-guide.330a61dc.w1200.webp 1200w, photo-dmz-tour-guide.jpg 1600w" sizes="(max-width: 600px) 100vw, (max-width: 1000px) 50vw, 400px" decoding="async"><span>DMZ Tours from Seoul: What You&#x27;ll See and How to Choose One</span></a></div>
 </section>
 
 </article>

diff --git a/korea-autumn-foliage-2026.html b/korea-autumn-foliage-2026.html
@@ -371,9 +371,15 @@ When autumn leaves peak in Korea in 2026, the best places to see them in Seoul a
 
 
 
+
 <!-- kp-kkachi -->
 <style>.kp-kkachi{display:flex;gap:16px;align-items:center;margin:34px 0 8px;padding:16px 18px;border:1px solid rgba(20,28,42,.12);border-radius:14px;background:#fffdf8}.kp-kkachi img{width:72px;height:auto;flex:none;margin:0}.kp-kkachi p{margin:0;font-size:15px;line-height:1.6;color:#4b5363}.kp-kkachi a{color:#c9413a;font-weight:600}.kp-kkachi .kp-sub{margin-top:10px}.kp-sub{display:inline-flex;align-items:center;gap:8px;background:#c9413a;color:#fff!important;font-weight:700;font-size:14px;line-height:1;padding:10px 16px;border-radius:999px;text-decoration:none!important;white-space:nowrap}.kp-sub:before{content:'';border-style:solid;border-width:6px 0 6px 10px;border-color:transparent transparent transparent #fff}.kp-sub:hover{background:#a8332d}</style><aside class="kp-kkachi"><img src="kkachi.png" alt="Kkachi, the Korea Plainly magpie" width="72" height="78" loading="lazy"><p><strong>Kkachi says:</strong> in Korea, a magpie's call is said to mean good news and welcome guests are on the way. Have a wonderful trip! New one-minute Korea tips every Monday, Wednesday, Friday and Saturday on <a href="https://www.youtube.com/@KoreaPlainly" target="_blank" rel="noopener">YouTube</a>.<br><a class="kp-sub" href="https://www.youtube.com/@KoreaPlainly?sub_confirmation=1" target="_blank" rel="noopener">Subscribe on YouTube</a></p></aside>
 <!-- /kp-kkachi -->
+<section class="related-guides">
+<h2>Related guides</h2>
+<div class="kp-related"><a href="best-time-to-visit-korea.html"><img src="photo-best-time-to-visit-korea.jpg" alt="" loading="lazy" srcset="img/photo-best-time-to-visit-korea.f023d153.w480.webp 480w, img/photo-best-time-to-visit-korea.f023d153.w800.webp 800w, img/photo-best-time-to-visit-korea.f023d153.w1200.webp 1200w, photo-best-time-to-visit-korea.jpg 1600w" sizes="(max-width: 600px) 100vw, (max-width: 1000px) 50vw, 400px" decoding="async"><span>Best Time to Visit Korea: Month-by-Month Guide and What Month Autumn Starts</span></a><a href="day-trips-from-seoul.html"><img src="photo-day-trips-from-seoul.jpg" alt="" loading="lazy" srcset="img/photo-day-trips-from-seoul.449c2dca.w480.webp 480w, img/photo-day-trips-from-seoul.449c2dca.w800.webp 800w, img/photo-day-trips-from-seoul.449c2dca.w1200.webp 1200w, photo-day-trips-from-seoul.jpg 1600w" sizes="(max-width: 600px) 100vw, (max-width: 1000px) 50vw, 400px" decoding="async"><span>Day Trips from Seoul: 8 Easy Trips by Train, With Autumn and Winter Picks</span></a></div>
+</section>
+
 </article>
 
 </main>

diff --git a/guides.html b/guides.html
@@ -555,11 +555,11 @@ TRAVEL BASICS · NEW
 </small>
 
 <h2>
-Easy Day Trips from Seoul for First-Time Visitors
+Day Trips from Seoul: 8 Easy Trips by Train, With Autumn and Winter Picks
 </h2>
 
 <p>
-The best day trips from Seoul and how to get there: Suwon&#x27;s Hwaseong Fortress, the DMZ, Nami Island, Incheon, Jeonju and Gangneung.
+Eight day trips from Seoul with the train or bus to take, the time each way and what to eat, plus the best picks for autumn leaves and winter lights.
 </p>
 
 <span class="guide-arrow">
